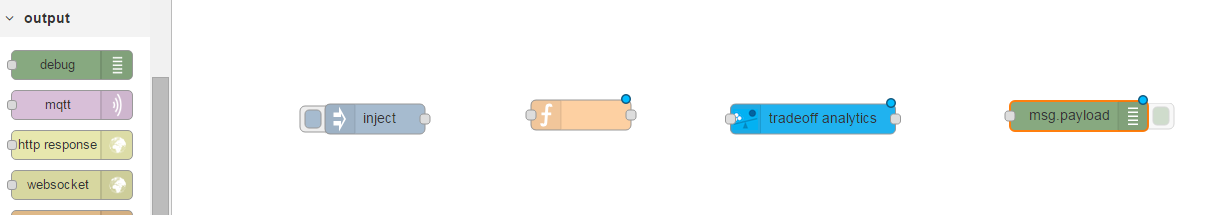
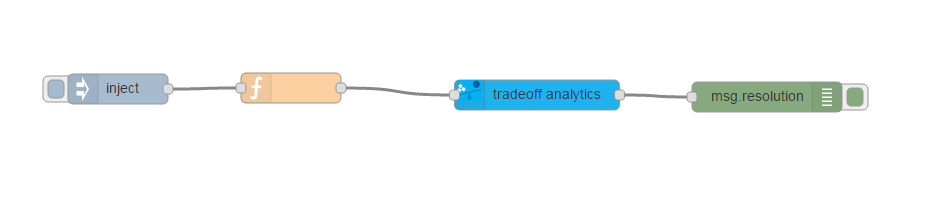
updates

Changed region(s): [[0.0, 0.233, 0.9646, 1.0], [0.0, 0.0583, 0.0622, 0.1165]]

diff --git a/watson_services_labs/tradeoff_analytics/lab_tradeoff_analytics.md b/watson_services_labs/tradeoff_analytics/lab_tradeoff_analytics.md
@@ -54,7 +54,7 @@ Drag the Tradeoff Analytics node to the palette
 
 ![ScreenShot](images/toff_tradeoff_node.png)
 
-Finally drag a Debug node to the palette
+Finally drag a Debug node to the palette and join the nodes up as shown
 
 ![ScreenShot](images/toff_debug_node.png)
 
@@ -82,9 +82,9 @@ Click on the Debug tab on Node-RED and then return to the palette and click the 
 
 Return to the Debug tab - you should now see the resultant output from the Tradeoff Analytics node
 
-![ScreenShot](imagestoff_output.png)
+![ScreenShot](images/toff_output.png)
 
-To understand the contents of the output go to ->  [https://www.ibm.com/smarterplanet/us/en/ibmwatson/developercloud/doc/tradeoff-analytics/inout.shtml](https://www.ibm.com/smarterplanet/us/en/ibmwatson/developercloud/doc/tradeoff-analytics/inout.shtml) and [https://developer.ibm.com/answers/questions/191441/need-explanation-of-solutionperspective-response-f.html](https://developer.ibm.com/answers/questions/191441/need-explanation-of-solutionperspective-response-f.html)
+To understand the contents of the output go to ->  [Watson tradeoff](https://www.ibm.com/smarterplanet/us/en/ibmwatson/developercloud/doc/tradeoff-analytics/inout.shtml) and [Explanation of tradeoff JSON](https://developer.ibm.com/answers/questions/191441/need-explanation-of-solutionperspective-response-f.html)
 
 A complete file of the flows is saved here ->[ lab_toff_flow.json](lab_toff_flow.json)
 
